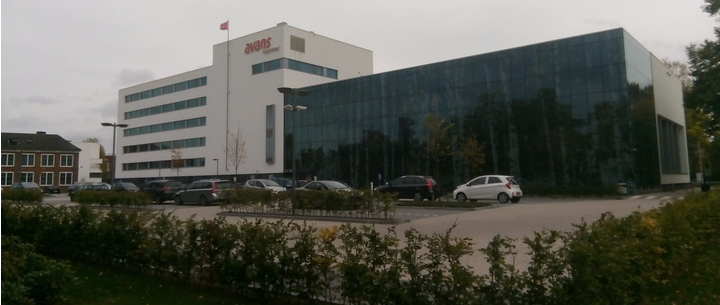
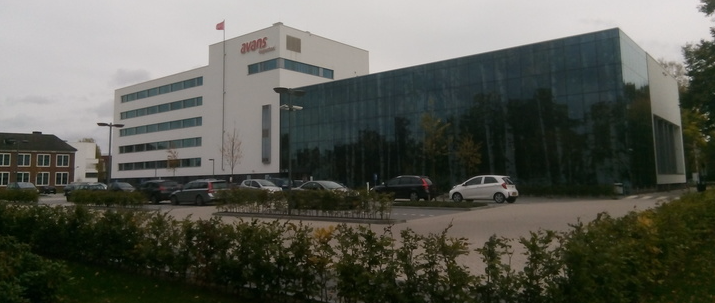
Foto veranderd

diff --git a/index.html b/index.html
@@ -32,7 +32,7 @@
 
 <div class="container-fluid no-gutter">
     <div class="col-md-12 no-gutter image">
-        <img class="full-width-pic" src="Images/Avans%20Hogeschool.jpg">
+        <img class="full-width-pic" src="Images/avans-la-gebouw.png">
         <h2 class="h2-text-image caption">Studeren op Avans Hogeschool</h2>
     </div>
 </div>

diff --git a/style/style.css b/style/style.css
@@ -97,7 +97,7 @@ img {
     border: solid;
     border-width: 1px;
     border-color: black;
-    height: 200px;
+
 }
 
 .text-size{
